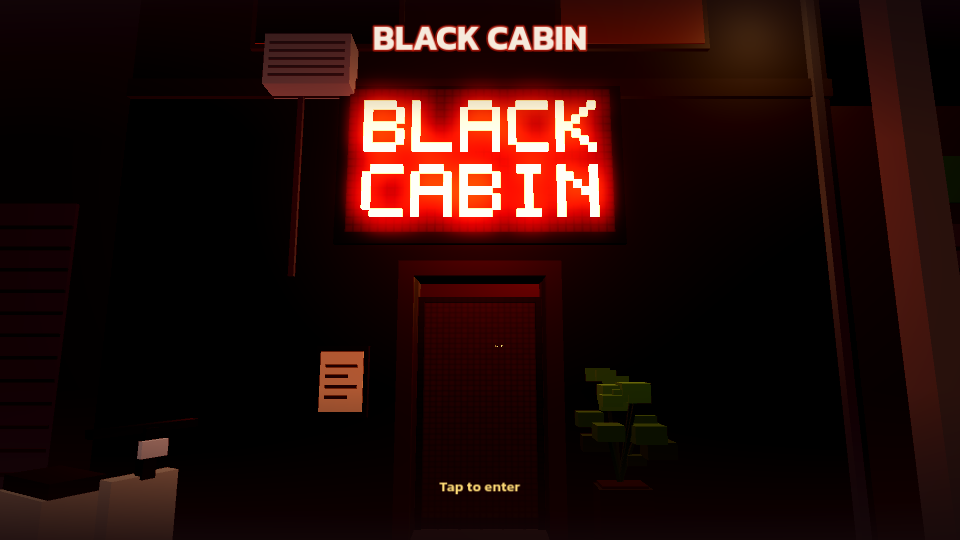
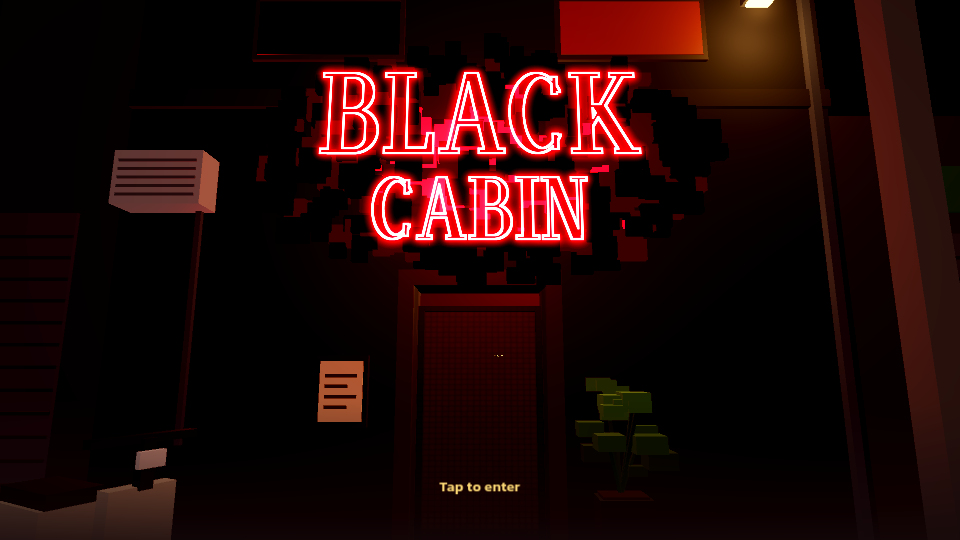
Start screen round 2: captures (title, over the shoulder, door, pull-back, play, exit out, exit shut; portrait and landscape), playtest guide, handoff, LOG

diff --git a/handoffs/start-screen-2026-11-01.md b/handoffs/start-screen-2026-11-01.md
@@ -1,83 +1,89 @@
-# 🎬 Start screen: the club's front door (BACKLOG B8) — state 2026-11-02
+# 🎬 Start screen and exit shot (BACKLOG B8) — state 2026-11-02, round 2
 
-Daniele's words: "when you start the game the menu should be a still camera as if first person of you staring on the
-entrance of the club from outside with a camera on the door on which a Black Cabin neon lit sign is; you tap to
-enter, door opens, your character walks in with camera following his point of view and then once in, door closes,
-camera zooms out to current one and game starts."
+Daniele's words (2026-11-01): "when you start the game the menu should be a still camera as if first person of you
+staring on the entrance of the club from outside with a camera on the door on which a Black Cabin neon lit sign is;
+you tap to enter, door opens, your character walks in with camera following his point of view and then once in, door
+closes, camera zooms out to current one and game starts." Round 2 answers (2026-11-02, DECISIONS.md): the sign is
+the photo (direction 23); no title; camera "start first (when you see the door) tapping and camera ease to over the
+shoulder, character open the door enters and while the door is closing camera ease to game view, interface appear
+and its playable"; add an exit shot.
 
-## What is built (on main)
-- **Street front** `game/scenes/street/street_front.gd` (script only, built in code at runtime; no `.tscn`). Placed
-  from the venue's `StreetDoor` meta `center`, so it follows the door if the venue session moves it. Black-painted
-  two-floor front with a parapet; the door cut out of it with dark jambs and a sill; a black sign board above the
-  door carrying the **kit `neon_sign`** (BLACK over CABIN, red voxel tubes, the lounge's sign at ×1.5, emission ×3
-  so it blooms); a small lit menu box beside the door; upper floor: one dark window, one lit behind a red blind,
-  a wall AC unit, a drainpipe. Neighbours: a taller grey shophouse north with a roller shutter and lit windows,
-  a low shop south with a shutter. Ground: pavement (around build_venue.gd's own 1.6 m `StreetStep`, not over it),
-  kerb, a 2.4 m soi with lane marks, the far kerb and a strip of opposite pavement up to build_venue.gd's
-  `StreetFacade` box across the street. Dressing: concrete utility pole with a sodium streetlight on an arm, the
-  Bangkok cable bundle sagging along the street, a transformer; a potted palm by the door; a parked cream
-  step-through scooter. Sky = the venue environment's NIGHT_SKY colour (no stars, no moon).
-  **Two lights** (`NeonWash` red omni, `Streetlight` sodium omni): 44 on the start screen (max_renderable 48),
-  42 once inside (the street and both lights are hidden when the pull-back starts; node `Main/Street` stays,
-  hidden). No colliders: nothing there is walked on except the venue's own step.
-- **Start screen and entry** `game/scripts/start_screen.gd`, started from `game/scripts/main.gd`:
-  - Title: still camera at eye height (1.6 m) on the opposite pavement, ~4.8 m from the facade, pitched up
-    (portrait 62° horizontal FOV, +13°: facade to the cables and the dark sky; landscape 54° vertical, +9°: door,
-    sign, upper windows). Title "BLACK CABIN" (Kanit Bold, LabelDisplayXL, cream with a red glow) near the top,
-    "Tap to enter" (Kanit SemiBold, gold, slow pulse) near the bottom, soft dark gradients behind both. Strings
-    `venue.start.title`, `venue.start.tap` in `game/i18n/strings_venue.csv` (EN + machine-draft TH
-    "แตะเพื่อเข้าร้าน"; the title stays Latin in Thai). F8 swaps the language on the title.
-  - Tap / click / Enter / Space / E: the title fades; the character (hidden until now, under the camera) walks
-    6.6 m from behind the camera to the lobby spawn in 3.3 s (about 2.4 m/s, eased in and out; physics off, position driven, walk
-    animation from the figure); the street door opens by its own proximity rule (venue_doors.gd, unchanged); the
-    camera follows 1.3 m behind and 0.3 m right (over the shoulder), at 1.75 m, tilting from looking up at the sign
-    to slightly down, closing to 0.6 m behind and centred once through the door. Then a 1.7 s pull-back: up first,
-    then back, always looking at the character, ending exactly on the diorama rig's lobby camera (FOV and aspect
-    blended, ceiling dropped above 3.6 m). The street is hidden as the pull starts (the camera faces into the
-    lobby). The door swings shut during the pull (its own 0.6 s hold + 0.8 s close). Then `main.start_play()`:
-    HUD and joystick fade in over 0.5 s, the session resumes, `session.arrive()` starts the visit (Welcome Back if
-    due) exactly as before. Tap to the end of the visit start: 5.0 s (+0.5 s fade).
-  - Any tap after the first: skip; the player lands at the spawn, the door is forced shut (hold cleared), the rig
-    camera takes over, the visit starts.
-  - While it runs: no visit (`Needs.begin_visit` not called), HUD and joystick hidden, `VenueSession` process
-    disabled (house band and sit minute frozen), `_blocked()` true so E/Space/Enter and sheets do nothing, the rig
-    does not process until the pull-back (so its cutaway never hides the lobby's west wall while we stand outside).
-    The save is loaded by the Needs autoload before any of this.
-- **When it shows** (`main.gd`): only when main.tscn is the running scene (`get_tree().current_scene == self`), not
-  in `--capture=` screenshot mode, not with `-- --skip-intro`. Tests and tools that instance main.tscn themselves
-  (all six old suites, smoke_doors_sit, capture_venue, measure_shadows, capture_parity, export_layout) start straight
-  in the venue as before, no edits to them. A test can force it with `main.intro = true` before `add_child`.
-  Debug builds: Esc on the start screen goes straight in. F5 (reset save) reloads the scene, so the start screen
-  shows again.
+## Commits
+- Round 1: `0dc0b68` (code, test), `cf0555f` (captures, docs). Round 2: see LOG.md (sign, sequence, exit shot).
+
+## Street front `game/scenes/street/street_front.gd`
+- Script only, built in code at runtime from the venue's `StreetDoor` meta `center` (follows the door if the venue
+  session moves it); one node `Main/Street`, hidden with its lights while the player is inside.
+- **Sign (direction 23):** `game/assets/street/street_sign.png` (2048×1024), drawn by `tools/street_sign.py`:
+  BLACK over a smaller centred CABIN in a high-contrast serif built from rectangles, polygons and ellipses (no font
+  file, nothing to license); the glyph masks' edges become the tubes (dilate minus erode), so every stroke reads as
+  a double line; pale pink-white core, deep red glow (two blurs). In the scene: one 3.6 × 1.8 m quad, unshaded,
+  additive (black adds nothing), albedo ×2.4 so the environment glow blooms it, 0.34 m out from the facade over the
+  door. Behind it **foliage lit red from behind**: 520 voxel leaf clumps in an oval (4.3 × 2.1 m), three merged
+  meshes (glowing deep red at the back and middle, mid red, near-black in front and at the edges; emissive ones
+  have a black albedo and no specular so the streetlight doesn't tint them). Regenerate the texture with
+  `python tools/street_sign.py`, then let Godot import it (`--import` or the editor). A missing import falls back to
+  reading the PNG directly.
+- The rest as round 1: black two-floor front, door jambs and sill, lit menu box, upper windows (one lit), AC unit
+  (moved north of the sign), drainpipe, taller grey neighbour north, low shuttered shop south, pavement round the
+  venue's own StreetStep, kerbs, a 2.4 m soi, the opposite pavement; utility pole with sodium streetlight and cables,
+  potted palm, cream scooter. **Two lights** (`NeonWash`, `Streetlight`): 44 with the street on, 42 inside.
+- `view_transform(portrait)`, `view_pitch`, `view_fov`: the still camera of both shots (opposite pavement, eye
+  1.6 m; portrait 62° horizontal FOV pitched +14°, landscape 54° vertical pitched +10°).
+
+## Start screen `game/scripts/start_screen.gd` (shared base `game/scripts/street_shot.gd`)
+- Title: the still view, only "Tap to enter" (`venue.start.tap`, EN + machine-draft TH, Kanit SemiBold gold, slow
+  pulse) over a soft dark band at the bottom. No title (removed `venue.start.title`).
+- Tap / click / Enter / Space / E:
+  1. prompt fades; the character steps out from under the camera (visible from now) and walks to 0.75 m in front of
+     the facade (1.9 s); the camera eases over 1.2 s from the still view to over the right shoulder (1.3 m behind,
+     0.3 m right, 1.75 m up, pitched down), following with a damped x so nothing jerks;
+  2. they stop 0.3 s while the door swings open (venue_doors.gd's proximity rule, unchanged), then walk through to
+     main's spawn (1.2 s), the camera closing to 0.6 m behind and centring;
+  3. when the door starts to swing shut (venue_doors.gd: 0.6 s after they leave its 1.2 m reach), the camera eases
+     over 1.6 s up first, then back, always looking at the character, ending exactly on the diorama rig's lobby
+     camera; the street goes dark once the door is shut;
+  4. `main.start_play()`: HUD and joystick fade in (0.5 s), the session resumes, `session.arrive()` starts the visit
+     (Welcome Back if due) exactly as without a start screen. Tap to visit start ≈ 5.3–5.5 s.
+- Second tap: skip (door forced shut, street dark, diorama camera, visit starts). Debug Esc: same from the title.
+- While it runs: no visit, HUD/joystick hidden, `VenueSession` process disabled (band, sit minute), `_blocked()`
+  true, rig not processing until the pull-back.
+
+## Exit shot `game/scripts/exit_shot.gd`
+- `main._on_visit_finished`: when the visit ended because the player **left** (Leave button or the street door's
+  Head home; not idle, not the F4 debug week) and street shots are on, the exit shot plays first, then
+  `main.end_exit_shot(summary)` opens the walk-out card exactly as before (totals, rules, card unchanged).
+- 0.25 s dip to black; under it the street lights on, the still view (landscape: pitched +4°, 60° FOV so the
+  character on the pavement is in frame), the character just inside the shut door facing out; dip back. They walk
+  out (1.7 s) to 1.5 m in front of the facade, a step to the side; the door opens for them and shuts 1.4 s after
+  they pass its reach; 0.4 s more, then: street dark, character back at the spawn with the diorama camera behind the
+  card, card. ≈ 3.2 s. A tap skips straight to the card. GO OUT starts the next visit at the spawn, as before.
+
+## When the shots run (`main.gd`)
+- `street_shots` is on only when main.tscn is the running scene (`current_scene == self`), not in `--capture=`
+  screenshot mode, not with `-- --skip-intro`. Tests and tools that instance main.tscn start in the venue and leave
+  straight to the card unless they set `main.intro = true` first. F5 reloads, so the start screen shows again.
 
 ## Tests and captures
-- `game/tests/smoke_start.gd`: title (street built with 2 lights, neon present, start camera current and aimed at
-  the door, EN/TH strings, no visit after 20 frames, HUD/joystick hidden, session suspended, player hidden), entry
-  (ends in 4–6.5 s, camera followed through the doorway at head height, pull-back phase seen, door opened ≥0.9, visit
-  started, rig camera current, lobby zone, street hidden, HUD alpha 1, door shut, lights inside ≤ venue's own and
-  ≤ 42, player at spawn and walking again, session processing), skip (second tap, door shut and stays shut, HUD,
-  lights), off (no start screen without `intro`, visit starts at once).
-- `game/tests/capture_start.gd` (windowed): `docs/art/screens/start/{portrait,landscape}-{1-title,2-door,3-pull,4-play}.png`
-  at half size (540×960 / 960×540, as capture_venue.gd; a full 1080×1920 window is clipped to this laptop's screen).
-  2-door = 2.2 s after the tap, 3-pull = 4.1 s.
+- `game/tests/smoke_start.gd`: title (street lit, sign + foliage, still camera aimed at the door, only the prompt on
+  screen, EN/TH, no visit, HUD hidden, session suspended), entry (over the shoulder before the door opens, door opens,
+  through the doorway at head height, pull-back starts while the door closes, no cut: camera speed < 12 m/s, ends
+  4–6.5 s, visit, rig camera, lobby zone, street dark, HUD, door shut, lights 42, spawn, walking), exit (shot before
+  the card, street lit with 44 lights, its camera, no HUD, door opens, character out on the pavement, door shut before
+  the card, then the card, street dark, lights 42, rig camera), exit skip (GO OUT → next visit, leave, tap → card,
+  door shut), entry skip, off (no shots without `intro`; leaving opens the card at once).
+- `game/tests/capture_start.gd` (windowed, half size 540×960 / 960×540): `docs/art/screens/start/<orientation>-`
+  `1-title, 2-shoulder, 3-door, 4-pull, 5-play, 6-exit-out, 7-exit-shut`. Round-1 frame names removed.
 
 ## Not measured / not done
-- Frame time of the start screen view not measured (light count only). Desktop, not a phone.
-- Leaving (walk-out) is unchanged. Showing the street on leave would be small: `Main/Street` is still in the tree,
-  hidden; `street.set_on(true)` + a camera out on the step. Follow-up, not built.
-- The first gameplay frame shows the prompt "Tap to head home": the lobby spawn sits inside the exit zone. That was
-  already so before this change (checked with the start screen off); a venue/zone question.
+- Frame time of the street views not measured (light count only). Desktop, not a phone.
+- The real street door model (staff-door stand-in kept, Daniele 2026-11-02) and a real photo of the front.
 
-## Calls for Daniele
-1. The facade: black-painted two-floor shophouse front, neighbours grey (taller) and brown (low, shutter), a narrow
-   soi. All stand-ins until a photo of the real front exists.
-2. The sign: the lounge's kit neon (BLACK over CABIN, red voxel tubes) on a black board above the door. Real sign's
-   shape, colour, placement (flat over the door, projecting blade, lightbox)?
-3. The door from outside: the kit `staff_door` leaf (dark, reads red under the neon), as inside.
-4. Dressing: streetlight on a utility pole with the cable bundle, potted palm, cream scooter, menu box. Keep / swap?
-5. Title text: "BLACK CABIN" (duplicates the neon on screen; a game name instead?) and "Tap to enter" /
-   "แตะเพื่อเข้าร้าน" (machine-draft Thai). Shown in the current language only.
-6. Camera: across the street on the opposite pavement (slightly further than "on the pavement" so the door, sign and
-   sky fit in portrait); over-the-shoulder follow rather than true first person (true first person showed only the
-   back of the head and the lobby wall).
-7. Timing: ~5 s, walk 3.3 s; any tap skips. F5 shows the start screen again.
+## Calls for Daniele (options, recommendation first)
+1. **Sign proportions:** the letters are my own serif drawing after the photo, not the real sign's font. (a) keep
+   (recommended until a straight-on, higher-resolution photo of the sign exists); (b) match a named typeface if
+   Daniele knows it; (c) trace the real sign from a better photo.
+2. **Exit shot on idle endings:** today only a chosen leave plays it. (a) only on leaving (recommended: an idle
+   timeout is not the character walking out); (b) on every visit end.
+3. **GO OUT after the exit shot:** today straight back inside at the spawn, no entry shot. (a) keep (recommended:
+   the Flat stand-in is temporary); (b) replay the entry from the street each time.

diff --git a/docs/tech/02-playtest-guide.md b/docs/tech/02-playtest-guide.md
@@ -11,11 +11,16 @@ visit end to end.
 - **Command line:** `Godot_v4.6.1-stable_win64.exe --path game` (portrait 1080×1920, shrunk to fit the screen).
   For landscape add `--resolution 1920x1080`, or press **F7** in game to swap.
 - **Start screen.** The game opens on the street at night, looking across the soi at the club's door under the
-  lit BLACK CABIN neon, with the title and "Tap to enter". Tap, click, Enter or Space: your character steps out from
-  under the camera and walks in, the door swings open for them, the camera follows over their shoulder through the
-  doorway, then pulls back and up into the game camera as the door swings shut; the HUD fades in. About 5 s; tap
-  again to skip to the end. Nothing counts until you are inside (no visit, no band, no HUD); the save loads first.
+  BLACK CABIN neon (outlined serif tubes on red-lit foliage, after Daniele's photo), with only "Tap to enter" on
+  screen. Tap, click, Enter or Space: your character steps out from under the camera and the camera eases to over
+  their shoulder; they stop at the door while it swings open, walk in, and as the door swings shut behind them the
+  camera eases up and back into the game camera; the HUD fades in. About 5.5 s; tap again to skip to the end.
+  Nothing counts until you are inside (no visit, no band, no HUD); the save loads first.
   Skip it altogether with `-- --skip-intro` on the command line, or **Esc** on the start screen (debug builds).
+- **Exit shot.** Leaving (the Leave button or the street door's Head home) dips to black and shows the street: the
+  door opens, your character steps out onto the pavement, the door shuts behind them, the neon stays on; then the
+  walk-out card as before. About 3 s; a tap skips to the card. Not with `--skip-intro`, and not when a visit ends
+  by idling.
 - You arrive in the entrance lobby, just inside the street door (west end of the L corridor), and the visit starts
   then. The corridor runs east along the lounge to the Sticker door; through it is the lounge, then the buffer
   zone and the main room.
@@ -88,10 +93,10 @@ Press **F5** in game, or delete
 
 From `game/`: `Godot --headless --path . --script res://tests/smoke_loop.gd` (the whole visit), plus
 `smoke_stairs`, `smoke_tap`, `smoke_hud`, `test_needs`, `test_minigames`, `smoke_doors_sit` (doors, seats, stair) and
-`smoke_start` (start screen and entry). Suites that load `main.tscn` themselves start straight in the venue; only
+`smoke_start` (start screen, entry and exit shot). Suites that load `main.tscn` themselves start straight in the venue; only
 running the game (main scene) shows the start screen.
 Screenshots: `Godot --path . -- --capture=<png> --capture-size=1080x1920 --capture-at=bar [--capture-sheet]`;
-the current ones are in `docs/art/screens/loop/` (screenshot mode skips the start screen). Start screen and entry:
+the current ones are in `docs/art/screens/loop/` (screenshot mode skips the start screen). Start screen, entry and exit shot:
 `Godot --path . --resolution 540x960 --script res://tests/capture_start.gd -- --tag=portrait` (and `960x540`,
 `--tag=landscape`) → `docs/art/screens/start/`.
 

diff --git a/LOG.md b/LOG.md
@@ -54,3 +54,4 @@ Append-only. One dated line per event, newest last. Never edit earlier lines.
 - 2026-11-02 — eight suites PASS on 128ddfb (incl. venue-notes' 29f95b4); the unverified push turned out clean.
 - 2026-11-02 — 🏗 venue-notes: Daniele's answers built: raised-edge neon red, Prae without surname, every seat sittable (tiny, long, counter, rectangular, smoking tables), Take a stool gives provisional bar_chat (+3 Friends, cap 6/visit); eight suites PASS.
 - 2026-11-02 — Daniele: TV memory corner (direction 25), corridor end-wall neon (direction 24), cutaway rule; logged; sent to venue-notes. Refreeze deferred to after this round.
+- 2026-11-02 — 🎬 start-screen round 2 (015efcc + docs commit): street sign rebuilt from Daniele's photo (direction 23: outlined serif BLACK over CABIN, pale pink-white tubes, deep red glow, on red-lit voxel foliage; texture from tools/street_sign.py); title removed (prompt only); entry re-sequenced (tap → ease to over the shoulder → stop at the door while it opens → in → pull-back to the game camera starts as the door swings shut → HUD, ~5.3 s); exit shot before the walk-out card (dip to black, character steps out, door shuts, neon on, ~3.2 s, tap skips); 44 lights with the street on, 42 inside; eight suites PASS; captures docs/art/screens/start (1-title … 7-exit-shut); note: main.gd and strings_venue.csv for this round landed early inside 41639f4.
